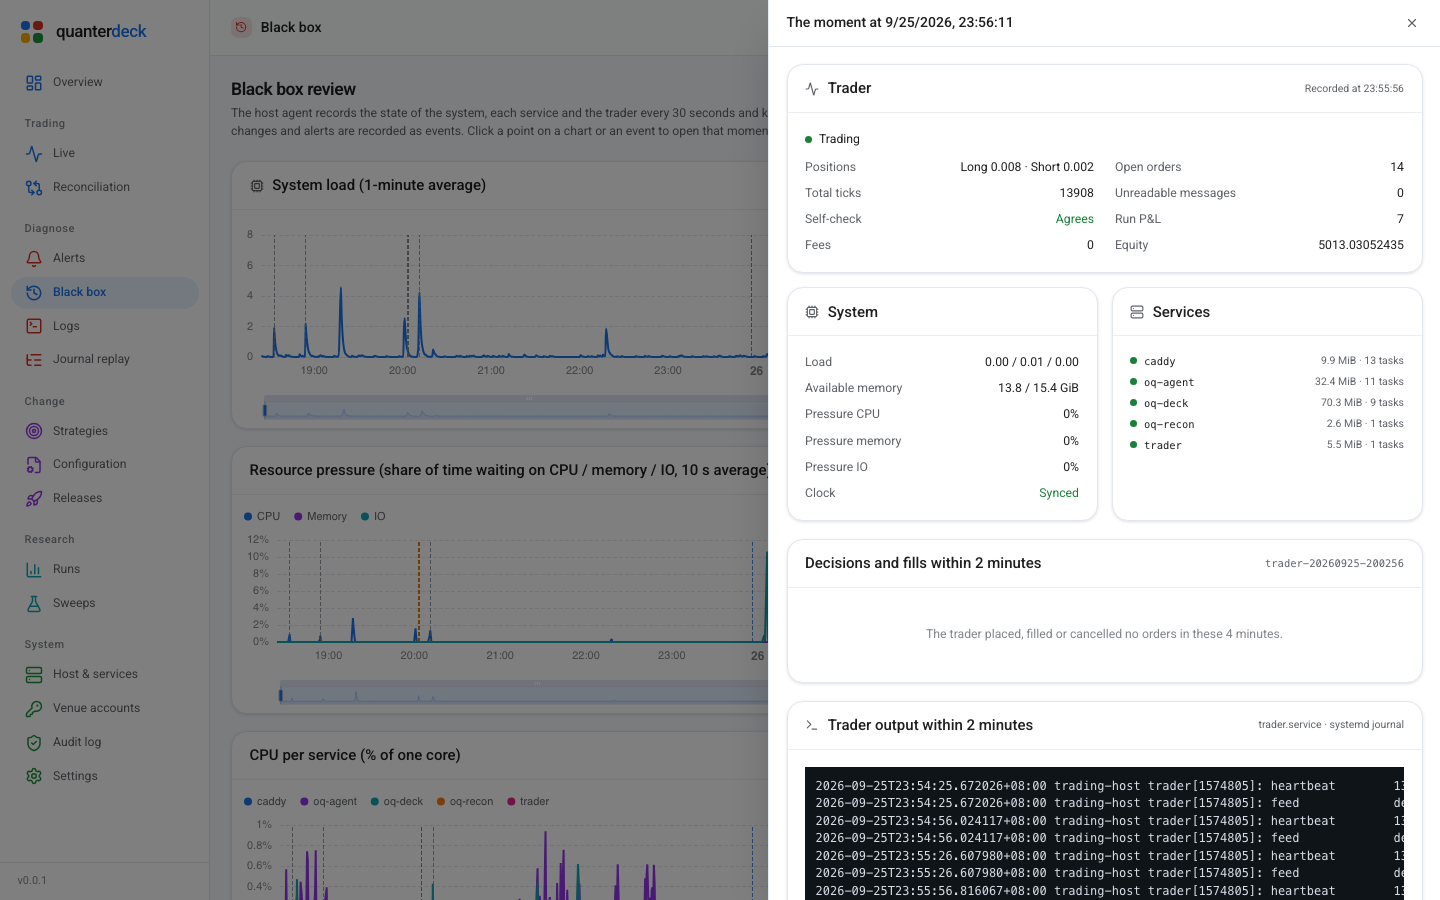
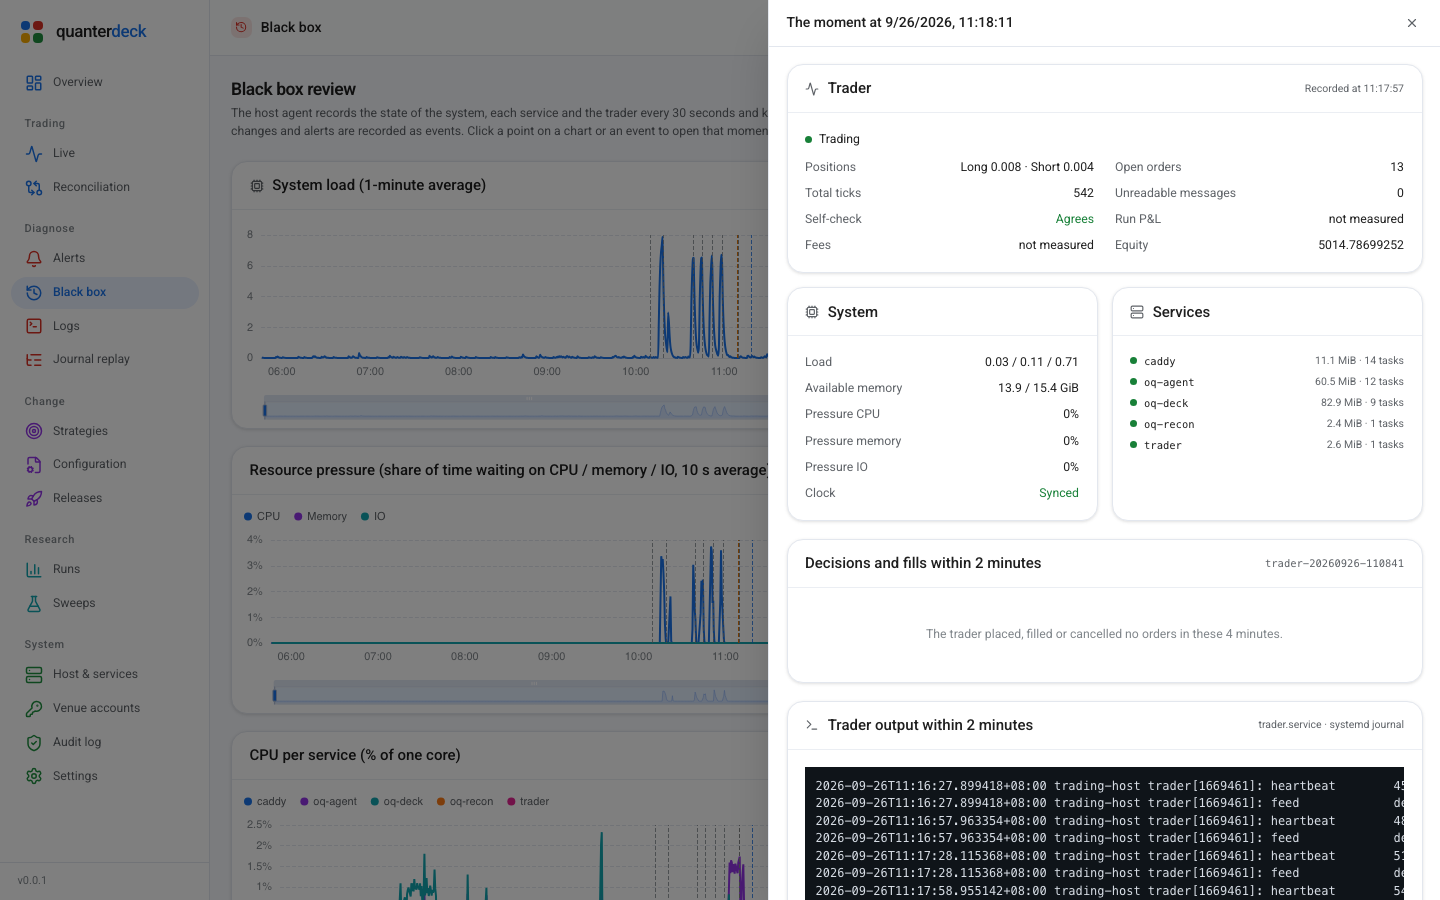
docs: the pictures again, and the changelog for this round
The pictures were taken before the fee work and showed `fees 0` on the
live page — a number this repository has since spent a day establishing
was wrong. They are taken again from the deployed build against the real
host, in both languages, and the run P&L card now reads `—` with "fees
not measured" under it, because this run has not traded yet and a fee
nobody measured is not a zero.

Checked in English mode over every route: the only Chinese left is the
language switch's own 中, the two languages named in Settings, and the
words an operator typed into the audit trail — which the console shows
as typed, on purpose.

The changelog gains the round that produced all of it.

diff --git a/CHANGELOG.md b/CHANGELOG.md
@@ -2,6 +2,51 @@
 
 ## Unreleased
 
+### The console says what it knows
+
+- **A fee the run has not measured is not a zero.** The books charge a
+  fee from a schedule, and a live run is built without one — so `fees`
+  was zero for every live run and the console drew it beside realized
+  and funding as though it were a measurement. The venue states the
+  commission on each fill; a run books that now, checks the total
+  against the venue's own trade records when it ends, and reports
+  *not measured* until it has one. A measured zero and a figure that
+  could not be measured are opposite facts, and the page no longer
+  conflates them.
+- **A venue reading older than the run is not a disagreement.** The
+  console compares the newest journal against a reading it rewrites
+  about once a minute, so for that minute after a restart it was
+  comparing two runs — every order they have apart counted in both
+  directions. It says which run the reading is of, and that it catches
+  up.
+- **A refusal says which fact stopped it.** `undecodable`,
+  `no adoption record`, or `the reading predates the run` were one
+  sentence; the sentence could not describe a case it did not know
+  about, and the new one had no sentence at all.
+- **The step-up code counts its failures** — five wrong ones close it
+  for fifteen minutes, the same numbers signing in uses. A six-digit
+  code is a million guesses and what sits behind this one is stopping
+  the trader.
+- **Listing the strategies is a read.** It called the code that sends
+  an instance whose configuration moved back to draft, so opening a page
+  moved a strategy. The step taken refuses instead, which is also where
+  the gate has to see it.
+- **The two codes are two entries, and the console says so.** The host
+  agent's step-up secret is the agent's — a compromised deck cannot mint
+  one — so nothing here can show it, and nothing said where it comes
+  from. The field that asks for it, first-run setup, and Settings all do
+  now; enrolling only the console's is why a first deploy stops at the
+  code.
+- **The sign-in screens are in this round's style.** They were not: a
+  different product mark, a card shadow heavier than every other card's
+  and not from the theme, and the language and theme switches — the two
+  things this release is about — unreachable until after signing in.
+- **This repository names no deployment of its own.** A release's
+  allow-list was a constant holding one operator's private binary, and
+  the unit, channel and prefix defaults were that deployment's. They are
+  configuration now, the mark and the copy are generic, and the
+  defaults a deployment must set are in the README's table.
+
 ### English, beside Chinese
 
 - **The interface is in Chinese and English,** switched from the top bar
